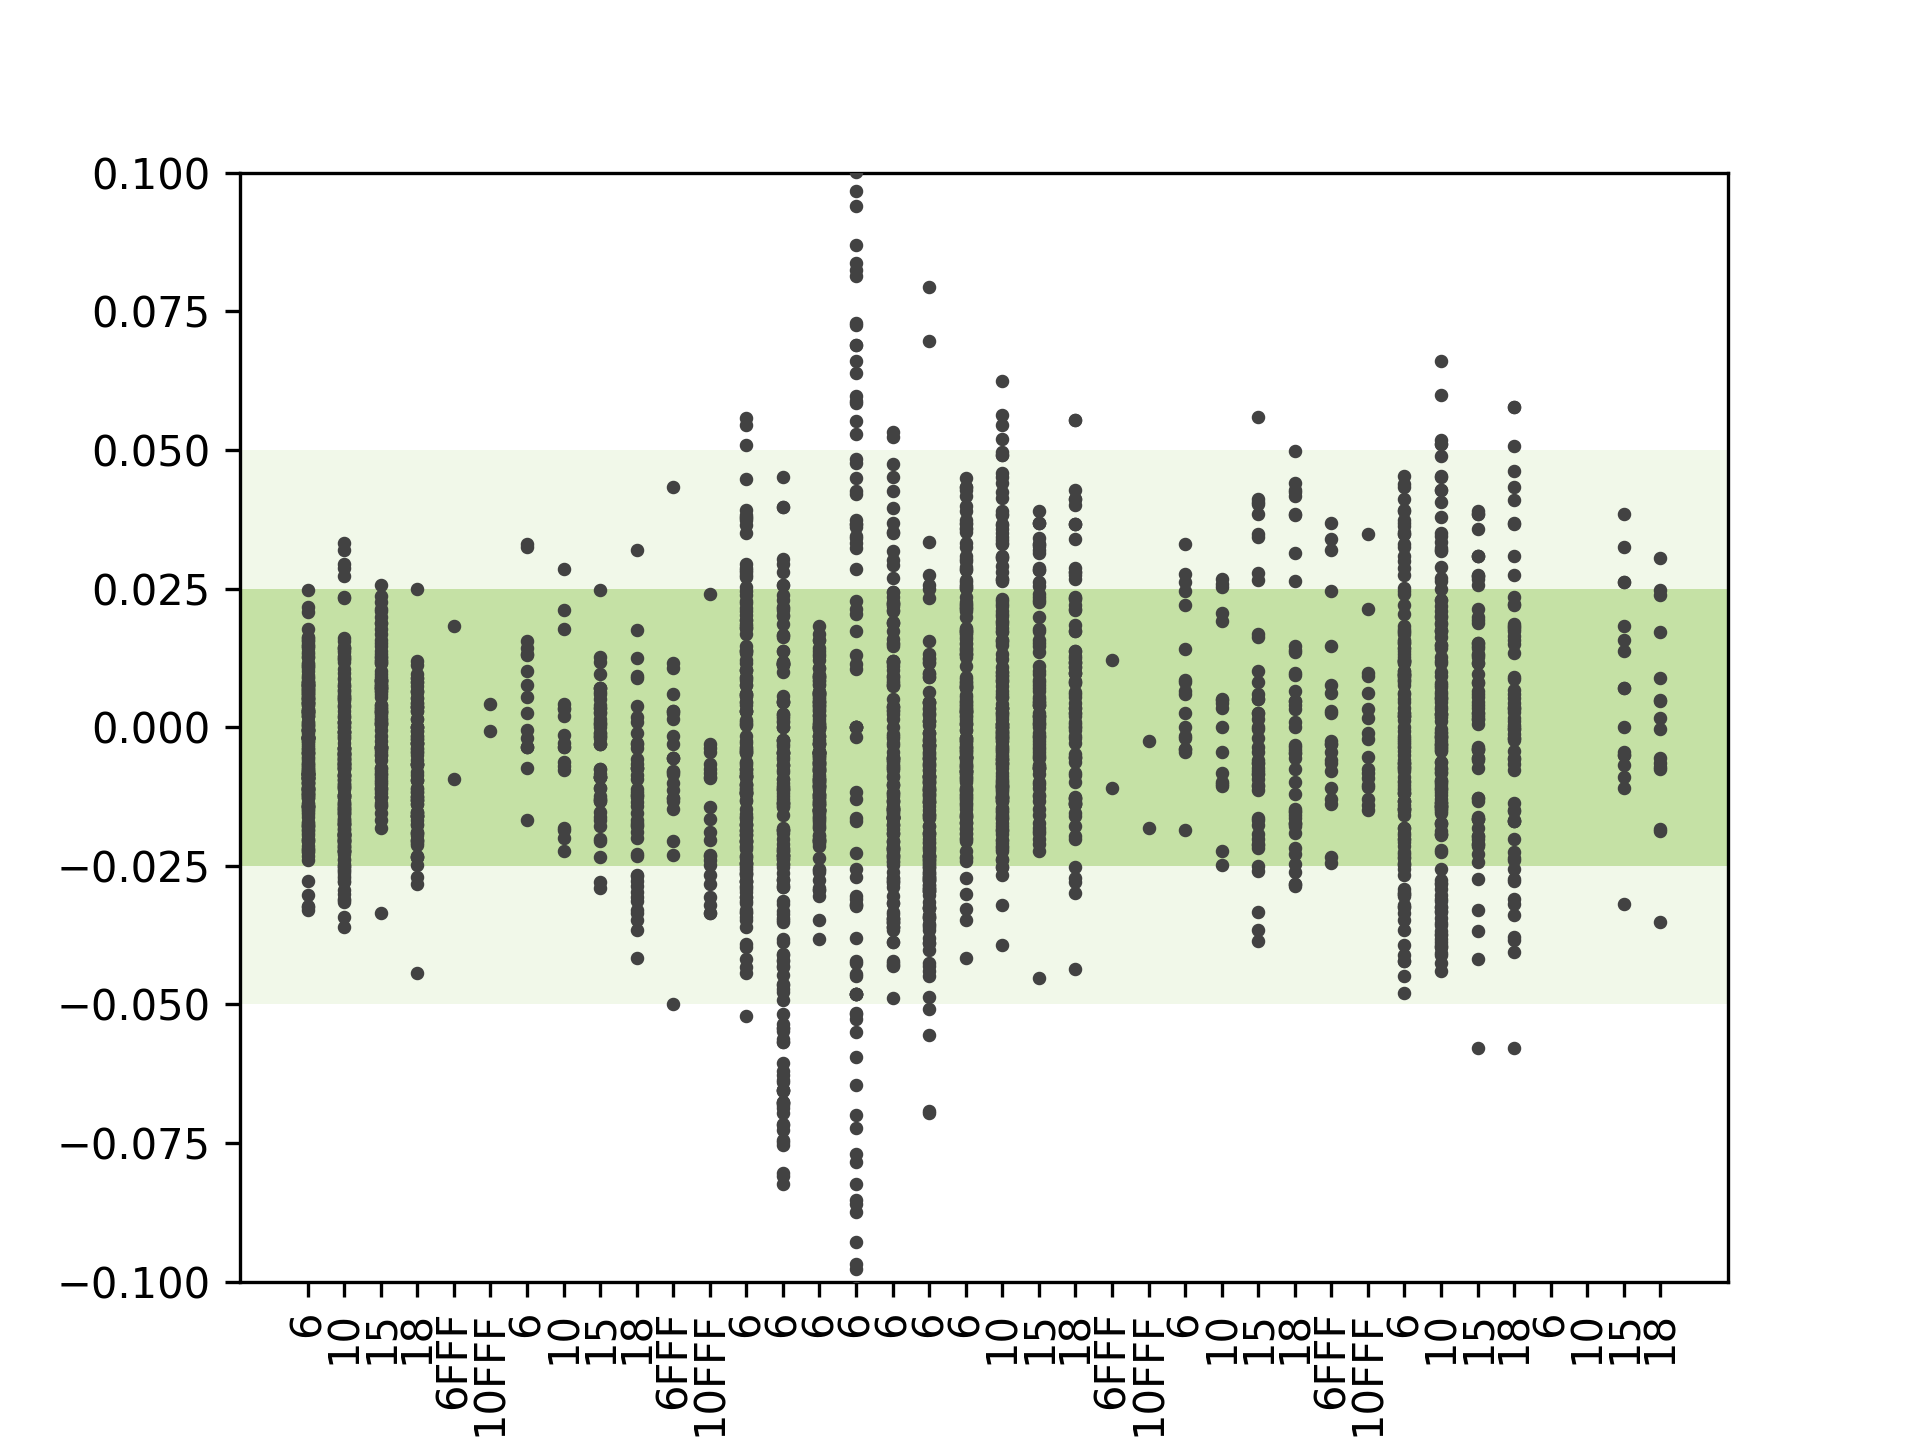
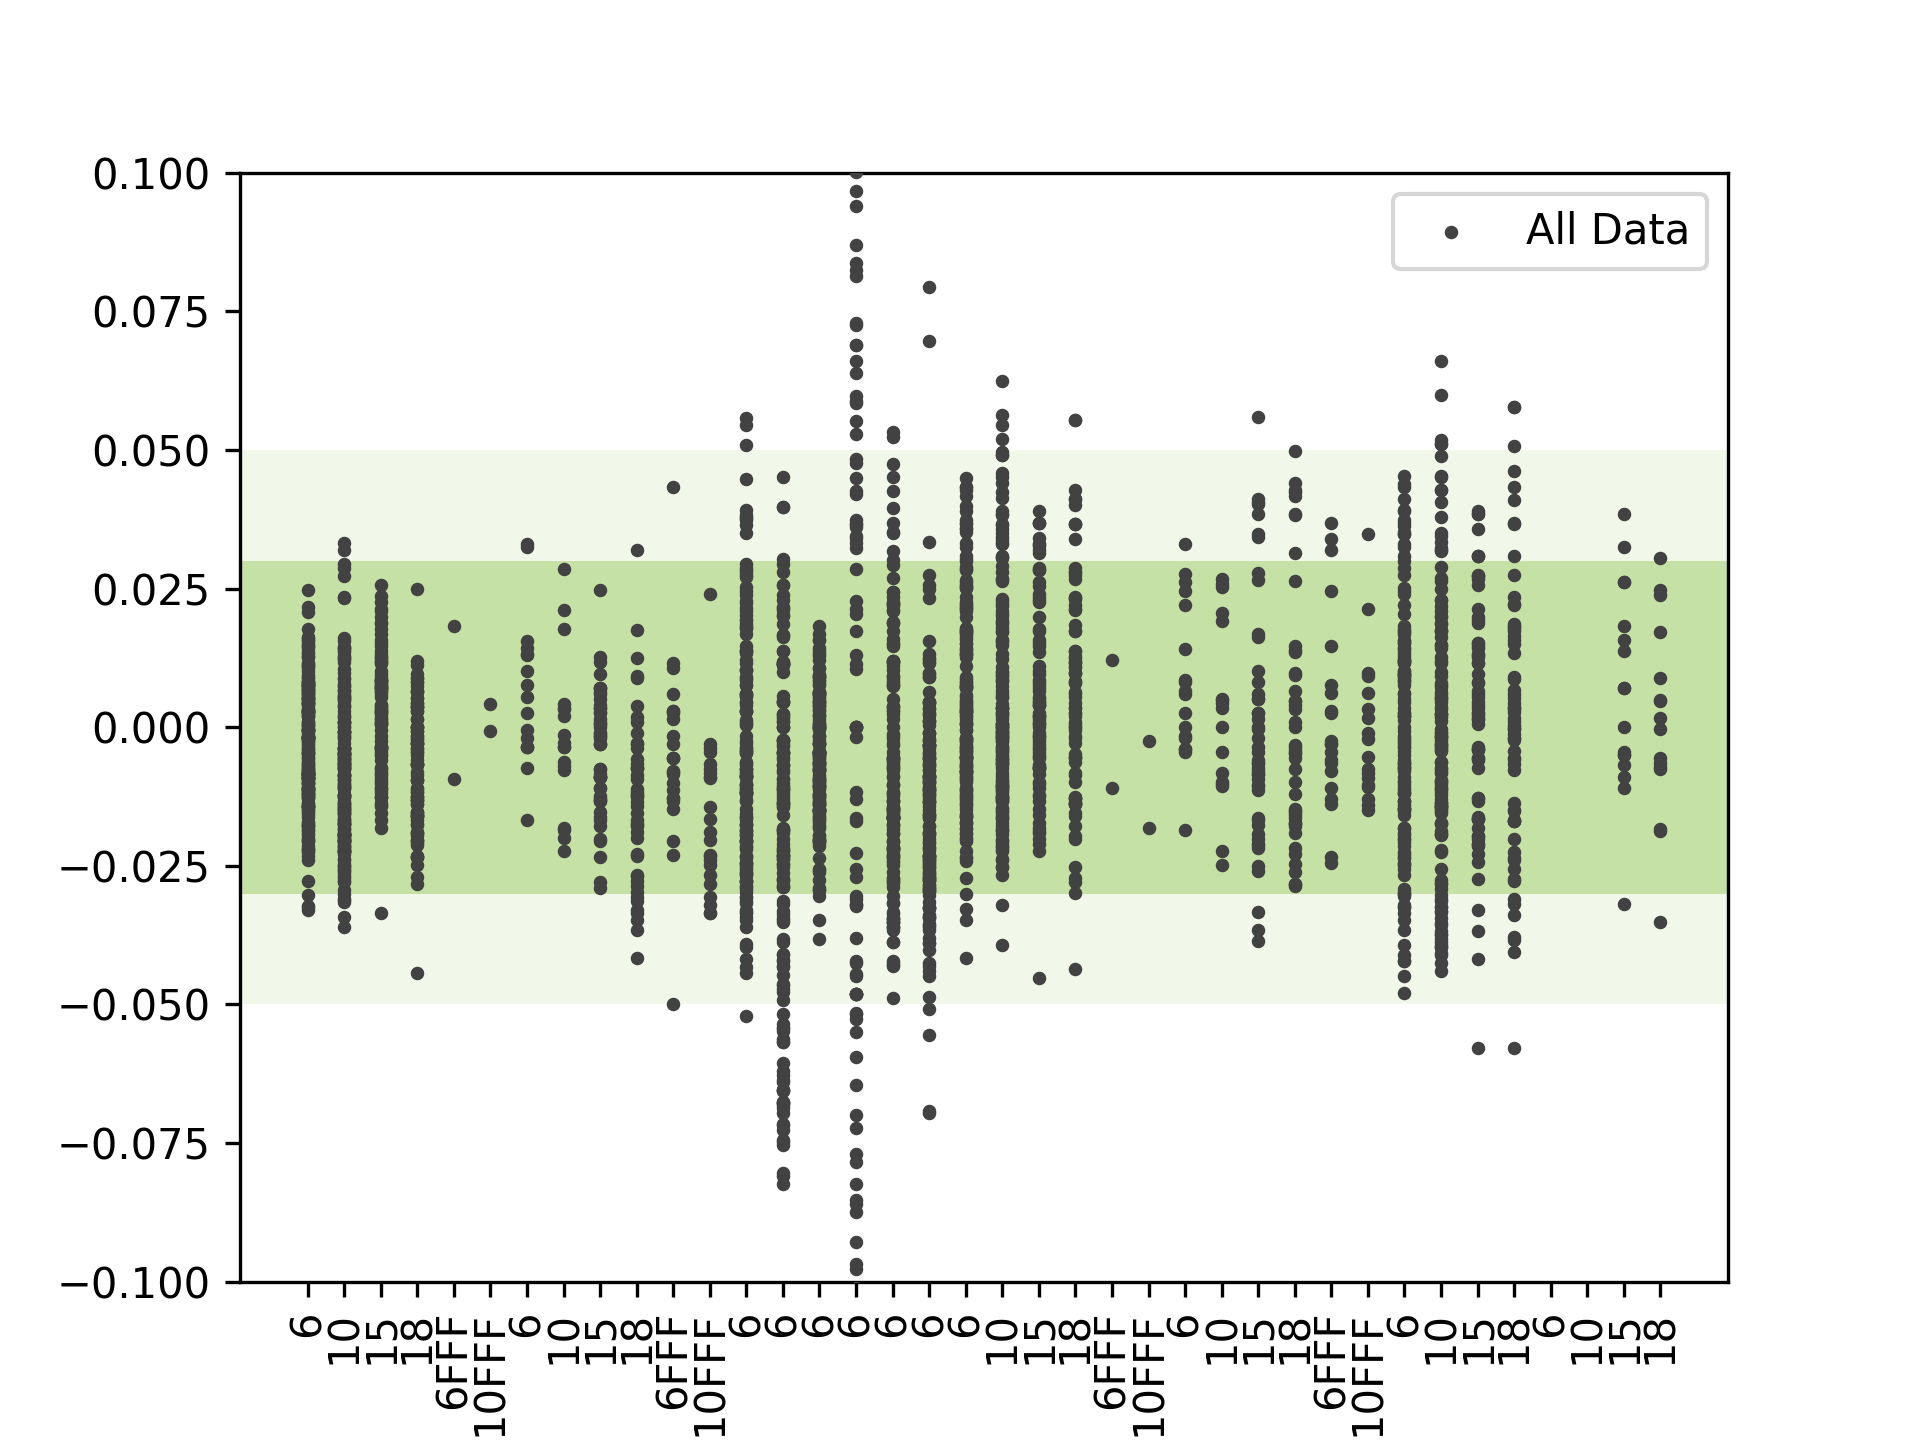
label added

Changed region(s): [[0.125, 0.5938, 0.9062, 0.625], [0.125, 0.375, 0.9062, 0.4062], [0.7188, 0.125, 0.9062, 0.1875]]

diff --git a/plot3DCRT.py b/plot3DCRT.py
@@ -1,6 +1,10 @@
 import matplotlib.pyplot as plt
 import pandas as pd
 import numpy as np
+import matplotlib.image as mpimg
+from matplotlib.offsetbox import (TextArea, DrawingArea, OffsetImage,
+                                  AnnotationBbox)
+from matplotlib.cbook import get_sample_data
 
 
 def all_data():
@@ -29,7 +33,7 @@ def all_data():
     xlabels = np.unique(df["x"])
 
     # plot.scatter(x, y, c="color", s=size)
-    plt.scatter(df["x"], df["a"], s=5, c="#424242", zorder=5)
+    allData = plt.scatter(df["x"], df["a"], s=5, c="#424242", zorder=5)
     plt.xticks(xlabels, ('6', '10', '15', '18', '6FFF', "10FFF",
                          "6", "10", "15", '18', '6FFF', '10FFF',
                          '6', '6', "6", "6", "6", "6",
@@ -39,11 +43,13 @@ def all_data():
                          "6", "10", "15", "18"), rotation=90)
 
     plt.ylim(-0.1, 0.1)
-    ax = plt.gca()
-    ax.axhspan(-0.03, 0.03, facecolor="#C5E1A5", alpha=1, zorder=2)
-    ax.axhspan(-0.05, 0.05, facecolor="#F1F8E9", alpha=1, zorder=1)
+    ax1 = plt.gca()
+    ax1.axhspan(-0.03, 0.03, facecolor="#C5E1A5", alpha=1, zorder=2)
+    ax1.axhspan(-0.05, 0.05, facecolor="#F1F8E9", alpha=1, zorder=1)
     # ax.set_facecolor("#99FF99")
 
+    plt.legend([allData], ['All Data'])
+    plt.savefig("3DCRT.png", dpi=300)
     plt.show()
-    # plt.savefig("3DCRT.png", dpi=300)
+
 
